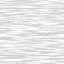
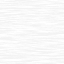
pressed button states and single page adjustments

diff --git a/public/css/awpy.css b/public/css/awpy.css
@@ -102,6 +102,10 @@ a.btn {
   background-image: url(../images/play-button.png);
 }
 
+.btn.run:active {
+  background-image: url(../images/play-button-pressed.png);
+}
+
 .btn.run.disabled {
   background-image: url(../images/frame-button.png);
 }
@@ -118,9 +122,18 @@ a.btn {
   background-image: url(../images/cat-button.png);
 }
 
+.btn.github:active {
+  background-image: url(../images/cat-button-pressed.png);
+}
+
 .btn.back {
   background-image: url(../images/back-button.png);
 }
+
+.btn.back:active {
+  background-image: url(../images/back-button-pressed.png);
+}
+
 
 /* =TABLE_HEADERS
 ----------------------------------------------------------------------------- */
@@ -184,7 +197,6 @@ table tbody td.genre {
   position: fixed;
   top: 0;
   width: 100%;
-  background: url(../images/brush.png) #eee;
   z-index: 1000;
 }
 header {
@@ -309,6 +321,7 @@ header {
   border-radius: 3px;
   overflow: hidden;
   background-color: #FFF;
+  min-height: 100px;
   -moz-box-shadow: 0 2px 5px rgba(0, 0, 0, 0.75);
   -webkit-box-shadow: 0 2px 5px rgba(0, 0, 0, 0.75);
   box-shadow: 0 2px 5px rgba(0, 0, 0, 0.75);
@@ -361,10 +374,6 @@ header {
   background-image: url(../images/info-button.png);
 }
 
-.content.single table {
-  width: 70%;
-}
-
 /* =SINGLE_PAGE
 ----------------------------------------------------------------------------- */
 
@@ -373,13 +382,16 @@ pre {
   font-size: 13px;
   line-height: 20px;
   border-style: none!important;
-  width: 70%;
+}
+
+.longdesc {
+  padding: 20px;
 }
 
 /* =BROWSER_ISSUES
 ----------------------------------------------------------------------------- */
 ul li {
-  margin: 10px;
+  margin: 20px;
 }
 
 #browserscope thead tr td {
